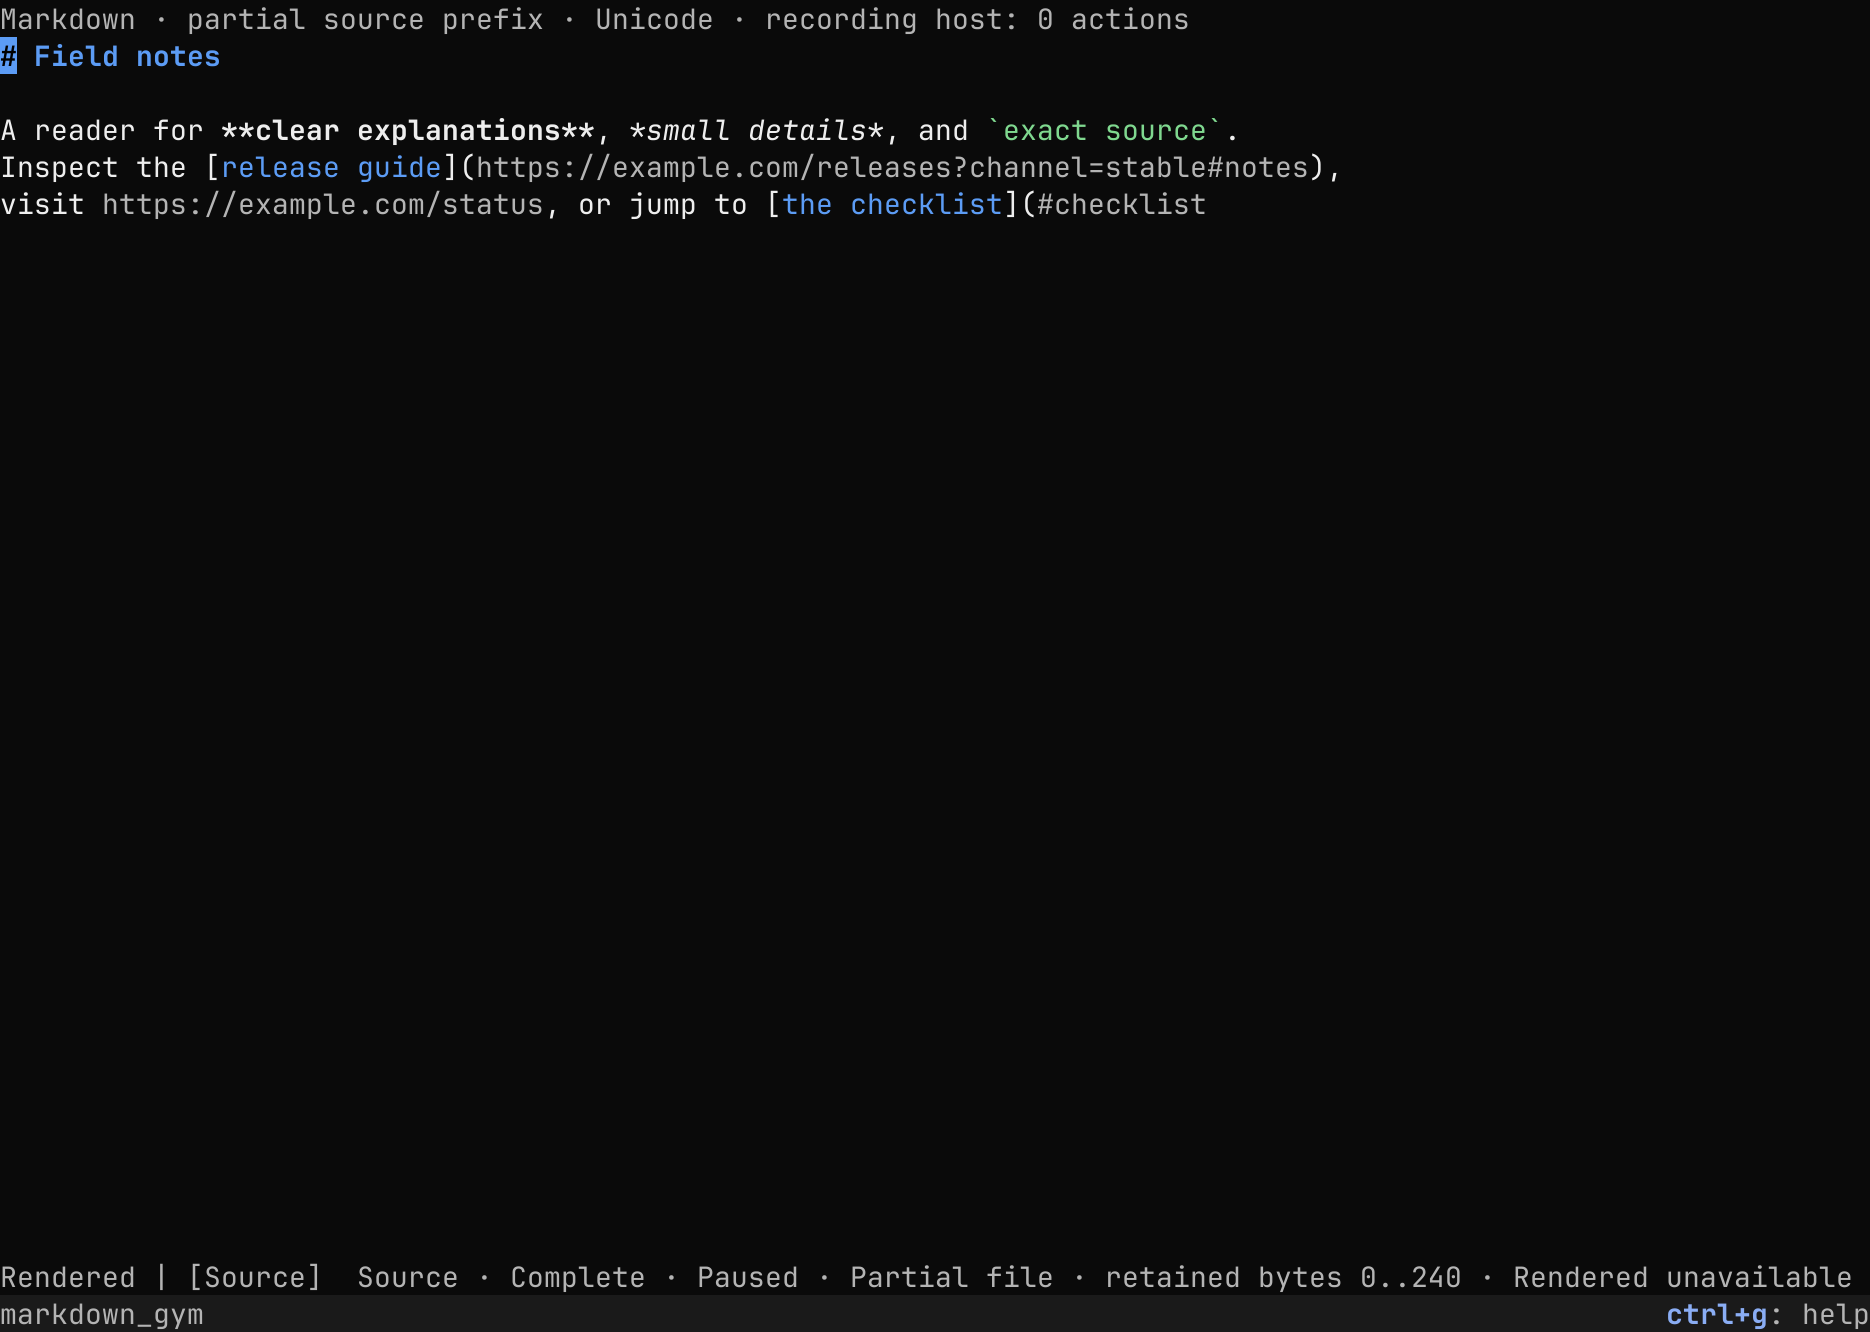
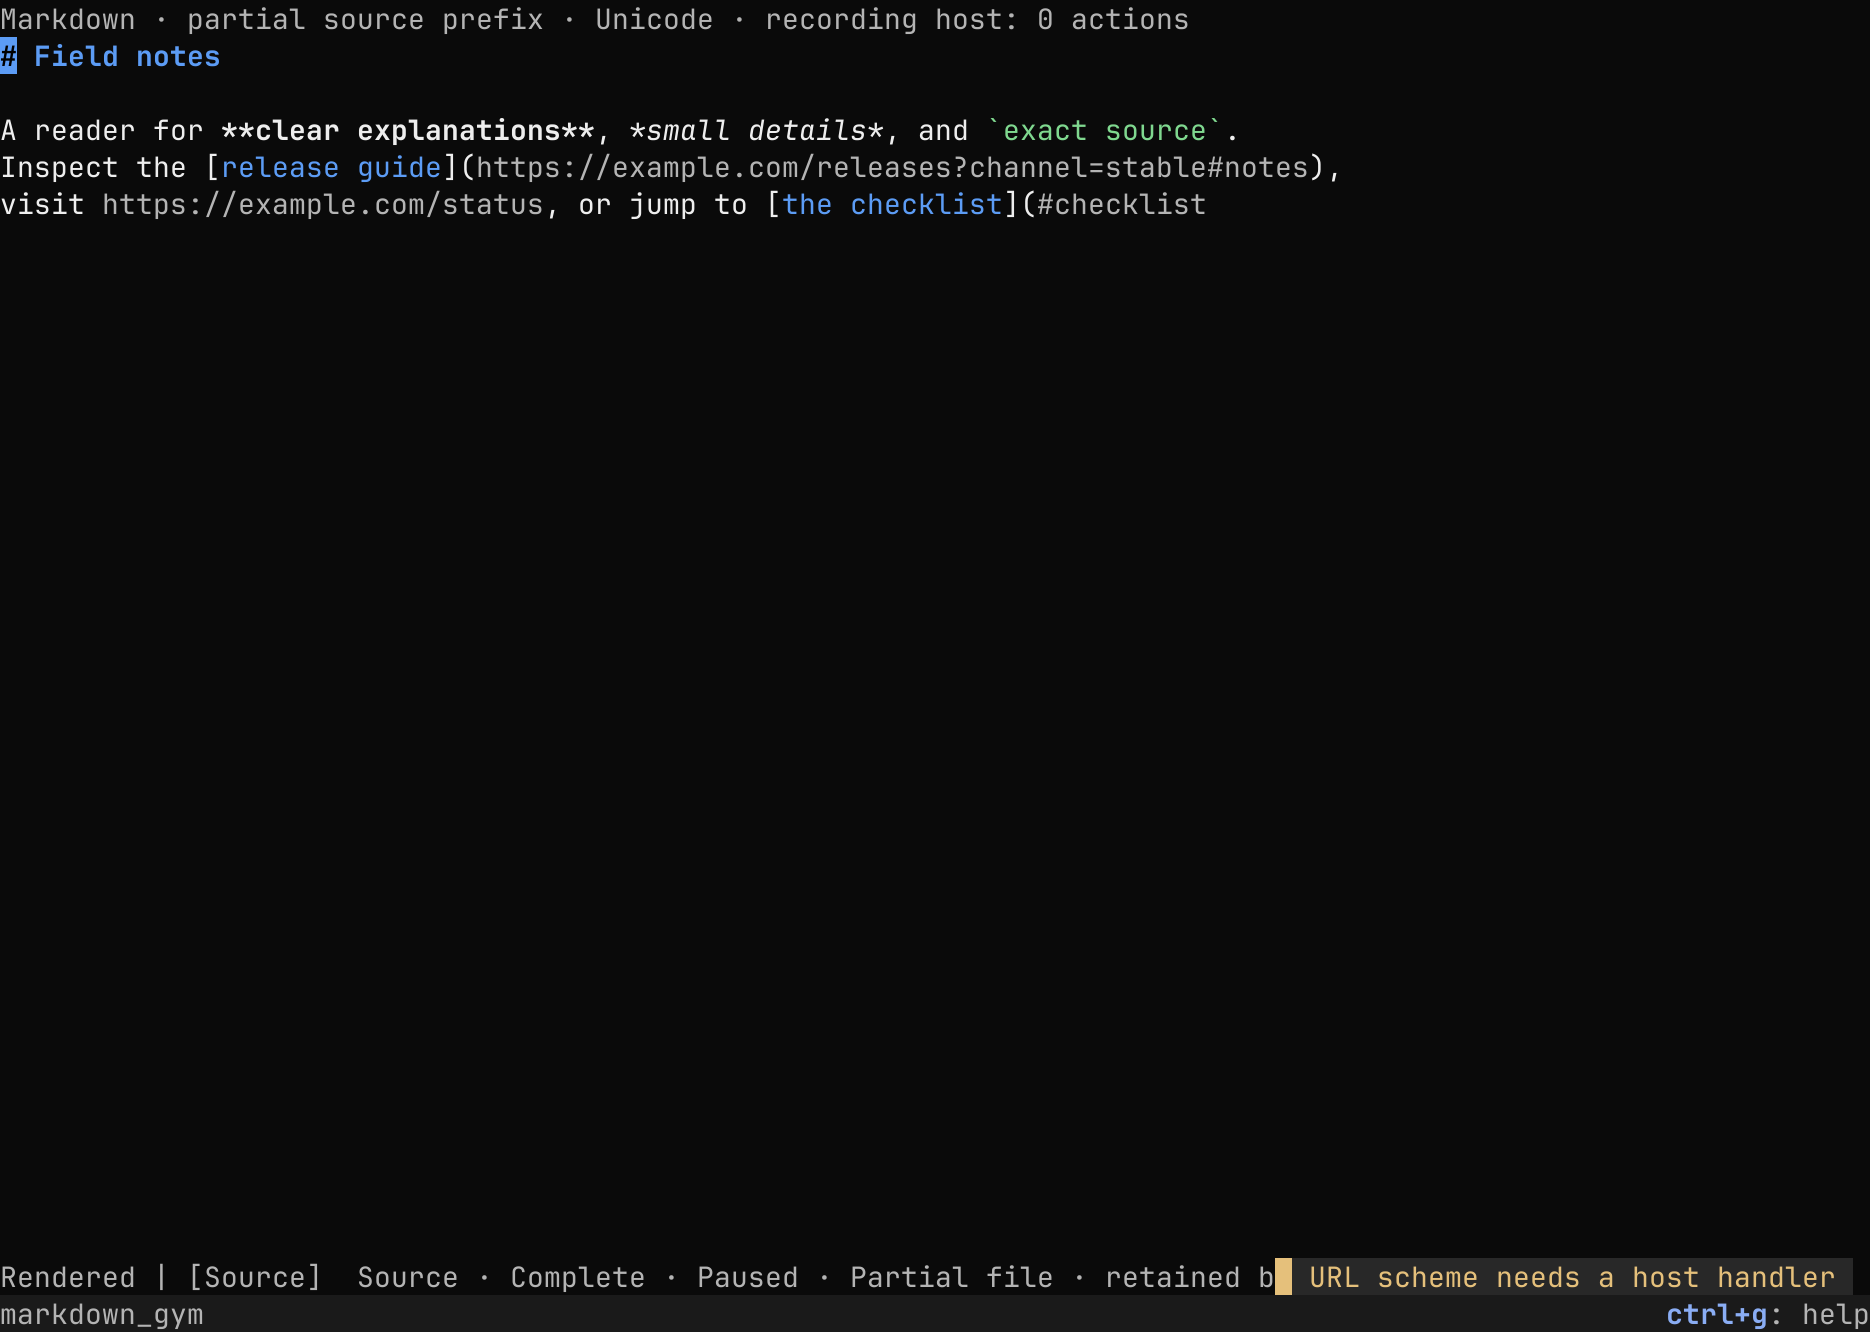
Fit the toast stack, and keep failures out of the reader's row
When the cards do not fit, the newest show. A count takes a line of its
own before it cuts the text, and a leading blank line drops. The Markdown
reader's status row shows only progress, as its footer does. The notice
docs describe the toasts, and the two liveness checks are one.

Changed region(s): [[0.6824, 0.9234, 0.9925, 0.985]]

diff --git a/crates/canopy-widgets/src/toast.rs b/crates/canopy-widgets/src/toast.rs
@@ -92,6 +92,22 @@ impl ToastLayer {
         let next = log
             .next_toast_end(now)
             .map(|end| end.saturating_duration_since(now));
+        // The newest cards show, with a blank row between each, as many as
+        // fit the layer. The newest shows always.
+        let area = context.view().view_rect_local();
+        let text_width = area.w.saturating_sub(ToastBox::frame()).min(MAX_TEXT_WIDTH);
+        let mut used = 0;
+        let mut first = live.len();
+        for (index, shown) in live.iter().enumerate().rev() {
+            let height = u32::try_from(shown.lines(text_width).len()).unwrap_or(u32::MAX);
+            let needed = used + height + u32::from(used > 0);
+            if area.h > 0 && needed > area.h && first < live.len() {
+                break;
+            }
+            used = needed;
+            first = index;
+        }
+        let live = &live[first..];
         for (index, toast) in self.boxes.iter().enumerate() {
             let shown = live.get(index).cloned();
             let hidden = shown.is_none();
@@ -154,18 +170,25 @@ impl Shown {
     }
 
     /// Return the lines of the message wrapped at `width` columns, with room
-    /// for the count on the last line. A message too long for
+    /// for the count on the last line. The count takes a line of its own when
+    /// the last line is full and a line is free. A message too long for
     /// [`MAX_LINES`] lines ends with a marker.
     fn lines(&self, width: u32) -> Vec<String> {
         let width = width.max(1) as usize;
+        let count = self.count_width() as usize;
         let mut lines = wrap(&self.message, width);
+        let full = lines
+            .last()
+            .is_some_and(|last| text::width(last) as usize + count > width);
+        if count > 0 && full && lines.len() < MAX_LINES {
+            lines.push(String::new());
+        }
         if lines.len() > MAX_LINES {
             let rest = lines.split_off(MAX_LINES - 1).join(" ");
-            lines.push(text::truncate_end(&rest, width).into_owned());
+            lines.push(rest);
         }
         if let Some(last) = lines.last_mut() {
-            let room = width.saturating_sub(self.count_width() as usize);
-            *last = text::truncate_end(last, room).into_owned();
+            *last = text::truncate_end(last, width.saturating_sub(count)).into_owned();
         }
         lines
     }
@@ -222,7 +245,7 @@ fn wrap(message: &str, width: usize) -> Vec<String> {
             }
             line.push_str(word);
         }
-        if !line.is_empty() || lines.is_empty() {
+        if !line.is_empty() {
             lines.push(line);
         }
     }
@@ -289,9 +312,11 @@ impl Widget for ToastBox {
             if index == last
                 && let Some(count) = &shown.count
             {
-                let x = x.saturating_add(text::width(line)).saturating_add(1);
-                let width = shown.count_width().saturating_sub(1);
-                render.text("root/toast/count", Line::new(x, y, width), count)?;
+                // The count follows the text after a blank, or starts a line
+                // of its own, and stays within the card.
+                let offset = text::width(line) + u32::from(!line.is_empty());
+                let width = text_width.saturating_sub(offset);
+                render.text("root/toast/count", Line::new(x + offset, y, width), count)?;
             }
         }
         Ok(())
@@ -482,6 +507,49 @@ mod tests {
             80 - 1 - card + 2
         );
         Ok(())
+    }
+
+    #[test]
+    fn the_newest_cards_show_when_the_stack_does_not_fit() -> Result<()> {
+        let (mut harness, _clock) = app(Size::new(80, 12))?;
+        let long = |index: usize| format!("{index} {}", "word ".repeat(30).trim());
+        for index in 0..TOAST_LIMIT {
+            notify(&mut harness, NoticePost::error(long(index)))?;
+        }
+        let screen = rows(&harness);
+        let shows = |text: &str| screen.iter().any(|row| row.contains(text));
+        assert!(shows("3 word"), "the newest shows: {screen:?}");
+        assert!(shows("2 word"), "{screen:?}");
+        assert!(
+            !shows("0 word"),
+            "the oldest that does not fit hides: {screen:?}"
+        );
+        assert!(screen[11].trim().is_empty(), "the bottom row stays clear");
+        Ok(())
+    }
+
+    #[test]
+    fn a_count_takes_its_own_line_before_it_cuts_the_text() -> Result<()> {
+        let (mut harness, _clock) = app(Size::new(80, 8))?;
+        let message = "x".repeat(47);
+        notify(&mut harness, NoticePost::error(message.clone()))?;
+        notify(&mut harness, NoticePost::error(message.clone()))?;
+        let screen = rows(&harness);
+        assert!(
+            screen.iter().any(|row| row.contains(&message)),
+            "the text shows whole: {screen:?}"
+        );
+        assert!(
+            screen.iter().any(|row| row.trim() == "×2"),
+            "the count takes the next line: {screen:?}"
+        );
+        Ok(())
+    }
+
+    #[test]
+    fn a_leading_blank_line_is_dropped() {
+        assert_eq!(super::wrap("\nfoo", 10), ["foo"]);
+        assert_eq!(super::wrap("", 10), [""]);
     }
 
     #[test]

diff --git a/crates/canopy-markdown/src/widget/mod.rs b/crates/canopy-markdown/src/widget/mod.rs
@@ -1882,6 +1882,14 @@ impl Markdown {
         self.action_failed = true;
         ctx.notify(NoticePost::warning(reason))
     }
+
+    /// The status of an action that goes on. The host reports a success in
+    /// its own way, and a notice reports a failure, so neither shows.
+    fn action_progress(&self) -> Option<&str> {
+        (!self.action_status.is_empty() && self.action_status != ACTION_DONE && !self.action_failed)
+            .then_some(self.action_status.as_str())
+    }
+
     /// Latest truthful status of a requested host action.
     #[command]
     pub fn action_status(&self) -> String {
@@ -2351,18 +2359,8 @@ impl Markdown {
         if let Some(status) = &self.options.status {
             items.push(item("markdown.host", 20, "label", status.clone()));
         }
-        // The host performed a successful action and reports it in its own
-        // way, and a notice reports a failure, so only progress shows.
-        if !self.action_status.is_empty()
-            && self.action_status != ACTION_DONE
-            && !self.action_failed
-        {
-            items.push(item(
-                "markdown.action",
-                35,
-                "text",
-                self.action_status.clone(),
-            ));
+        if let Some(progress) = self.action_progress() {
+            items.push(item("markdown.action", 35, "text", progress.to_owned()));
         } else if let Some(destination) = self.selected_destination() {
             items.push(item(
                 "markdown.link",
@@ -2428,20 +2426,17 @@ impl Markdown {
             String::new()
         };
         let text = format!(
-            "{label}  {mode} · {lifecycle}{partial} · {follow}{update}{new}{}{}{}",
+            "{label}  {mode} · {lifecycle}{partial} · {follow}{update}{new}{}{}",
             self.options
                 .status
                 .as_ref()
                 .map_or(String::new(), |s| format!(" · {s}")),
-            self.failure
-                .as_ref()
-                .map_or(String::new(), |s| format!(" · {s}")),
-            if self.action_status.is_empty() {
-                self.selected_destination()
-                    .map_or(String::new(), |shown| format!(" · → {shown}"))
-            } else {
-                format!(" · {}", self.action_status)
-            }
+            self.action_progress().map_or_else(
+                || self
+                    .selected_destination()
+                    .map_or(String::new(), |shown| format!(" · → {shown}")),
+                |progress| format!(" · {progress}"),
+            )
         );
         let enabled = self.can_toggle_view_type(ctx)?;
         *self.chrome.borrow_mut() = ChromeState {

diff --git a/crates/canopy/src/core/notice.rs b/crates/canopy/src/core/notice.rs
@@ -315,7 +315,7 @@ impl NoticeLog {
         let live = self
             .entries
             .iter()
-            .any(|notice| notice.id == id && self.toast_live(notice, now));
+            .any(|notice| notice.id == id && self.is_live(notice, now));
         if !live {
             return false;
         }
@@ -333,13 +333,13 @@ impl NoticeLog {
     pub fn live_toasts(&self, now: Instant) -> Vec<&Notice> {
         self.entries
             .iter()
-            .filter(|notice| self.toast_live(notice, now))
+            .filter(|notice| self.is_live(notice, now))
             .collect()
     }
 
     /// Return whether `notice` shows at `now`, as a toast in its time.
     pub fn is_live(&self, notice: &Notice, now: Instant) -> bool {
-        self.toast_live(notice, now)
+        !self.ended.contains(&notice.id) && notice.at <= now && now < notice.ends()
     }
 
     /// Return when the next live toast ends, if one shows at `now`.
@@ -353,11 +353,6 @@ impl NoticeLog {
     /// Return the number of changes so far.
     pub(crate) fn generation(&self) -> u64 {
         self.generation
-    }
-
-    /// Return whether `notice` is a toast that shows at `now`.
-    fn toast_live(&self, notice: &Notice, now: Instant) -> bool {
-        !self.ended.contains(&notice.id) && notice.at <= now && now < notice.ends()
     }
 }
 

diff --git a/crates/canopy/src/core/canopy/setup.rs b/crates/canopy/src/core/canopy/setup.rs
@@ -129,13 +129,14 @@ impl Setup {
         self.canopy.binding_hooks.insert(name, hook);
     }
 
-    /// Register a hook that runs against the root context whenever the shown
-    /// notice changes: after a notice is recorded, before the next frame, and
-    /// when input dismisses it, before that input routes.
+    /// Register a hook that runs against the root context before the next
+    /// frame whenever the notice log changes: after a notice is recorded, and
+    /// when a toast ends early. A toast that ends on its time changes nothing
+    /// here; its widget polls the clock.
     ///
-    /// A hook reads the shown notice with
-    /// [`ViewContext::notice`](crate::ViewContext::notice). Registering a name
-    /// again replaces its hook. Hooks run in name order.
+    /// A hook reads the notices with
+    /// [`ViewContext::notice_log`](crate::ViewContext::notice_log). Registering
+    /// a name again replaces its hook. Hooks run in name order.
     pub fn register_notice_hook(&mut self, name: &'static str, hook: Hook) {
         self.canopy.notice_hooks.insert(name, hook);
     }

diff --git a/api/canopy.rs b/api/canopy.rs
@@ -1250,13 +1250,14 @@ impl Setup {
         hook: fn(_: &mut dyn Context) -> crate::error::Result<()>,
     );
 
-    /// Register a hook that runs against the root context whenever the shown
-    /// notice changes: after a notice is recorded, before the next frame, and
-    /// when input dismisses it, before that input routes.
+    /// Register a hook that runs against the root context before the next
+    /// frame whenever the notice log changes: after a notice is recorded, and
+    /// when a toast ends early. A toast that ends on its time changes nothing
+    /// here; its widget polls the clock.
     ///
-    /// A hook reads the shown notice with
-    /// [`ViewContext::notice`](crate::ViewContext::notice). Registering a name
-    /// again replaces its hook. Hooks run in name order.
+    /// A hook reads the notices with
+    /// [`ViewContext::notice_log`](crate::ViewContext::notice_log). Registering
+    /// a name again replaces its hook. Hooks run in name order.
     pub fn register_notice_hook(
         &mut self,
         name: &'static str,

diff --git a/crates/canopy/src/core/canopy/mod.rs b/crates/canopy/src/core/canopy/mod.rs
@@ -141,7 +141,7 @@ pub struct Canopy {
     mode_hooks: Hooks,
     /// Hooks run when a binding or the mode stack changes.
     binding_hooks: Hooks,
-    /// Hooks run after the shown notice changes.
+    /// Hooks run after the notice log changes.
     notice_hooks: Hooks,
     /// Trace for the most recent key or mouse routing pass.
     route_trace: Vec<RouteTraceEntry>,
@@ -589,7 +589,7 @@ impl Canopy {
         self.core.input_map.active_modes()
     }
 
-    /// Return whether the mode stack, the bindings, or the shown notice
+    /// Return whether the mode stack, the bindings, or the notice log
     /// changed since their hooks last ran.
     pub(super) fn state_hooks_pending(&self) -> bool {
         self.mode_hooks

diff --git a/docs/architecture.md b/docs/architecture.md
@@ -868,8 +868,8 @@ list the keys of a transient mode in a panel that overlays the main pane,
 leaving out a key whose command is disabled. The help modal covers that
 panel, and hides it while help is open. A framework-group modal suspends
 transient modes; a scoped or application modal keeps a menu opened inside it.
-`Setup::register_notice_hook` does the same for the shown notice. Root uses
-one to show the newest notice as one row at the bottom of the main pane.
+`Setup::register_notice_hook` does the same for the notice log. Root uses one
+to stack the live notices as toasts at the bottom right.
 
 ## Focus and Mouse Capture
 
@@ -966,8 +966,7 @@ Every notice is a toast: it shows from its post until its duration ends,
 whatever the input. Its level sets the default duration, longer for worse
 news: two seconds for info, four for a warning, and six for an error. A post
 can name another. At most four toasts show, and a newer toast ends the oldest
-early. `Context::end_toast`
-ends one early too. The log keeps every notice that has stopped showing. The
+early. `Context::end_toast` ends one early too. The log keeps every notice that has stopped showing. The
 driver clock alone decides whether a toast shows, so a headless run and a
 `ManualClock` test see what a terminal shows.
 
@@ -977,10 +976,10 @@ hook stacks the live toasts at the bottom right, one row above the bottom row,
 newest lowest, with a blank row between them. Each toast is a card with an
 edge in the color of its level. Its message wraps at 48 columns on at most
 three lines, and the last line ends with a marker when the message does not
-fit. An
-application that keeps a band at the bottom of the window, such as a text
-editor, names it with `Root::set_toast_floor`, and the stack rests just above
-the band while the band shows. The floor is a layout bound:
+fit. When the cards do not all fit, the newest show. An application that
+keeps a band at the bottom of the window, such as a text editor, names it with
+`Root::set_toast_floor`, and the stack rests just above the band while the
+band shows. The floor is a layout bound:
 `Context::set_layout_floor` raises the bottom padding of a node to clear the
 rows from the top of another node down. After each layout pass, a node with a
 floor reads the floor's published view, and a changed inset takes one more
